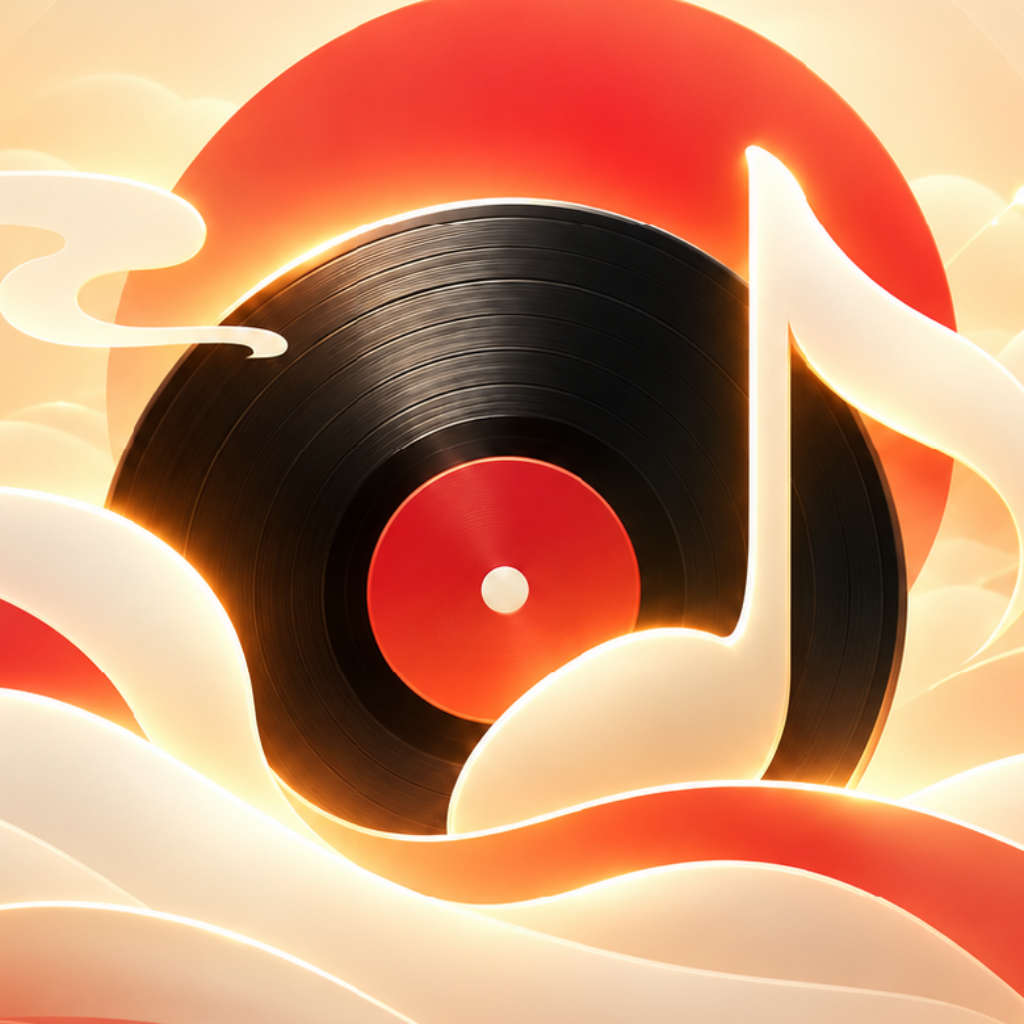
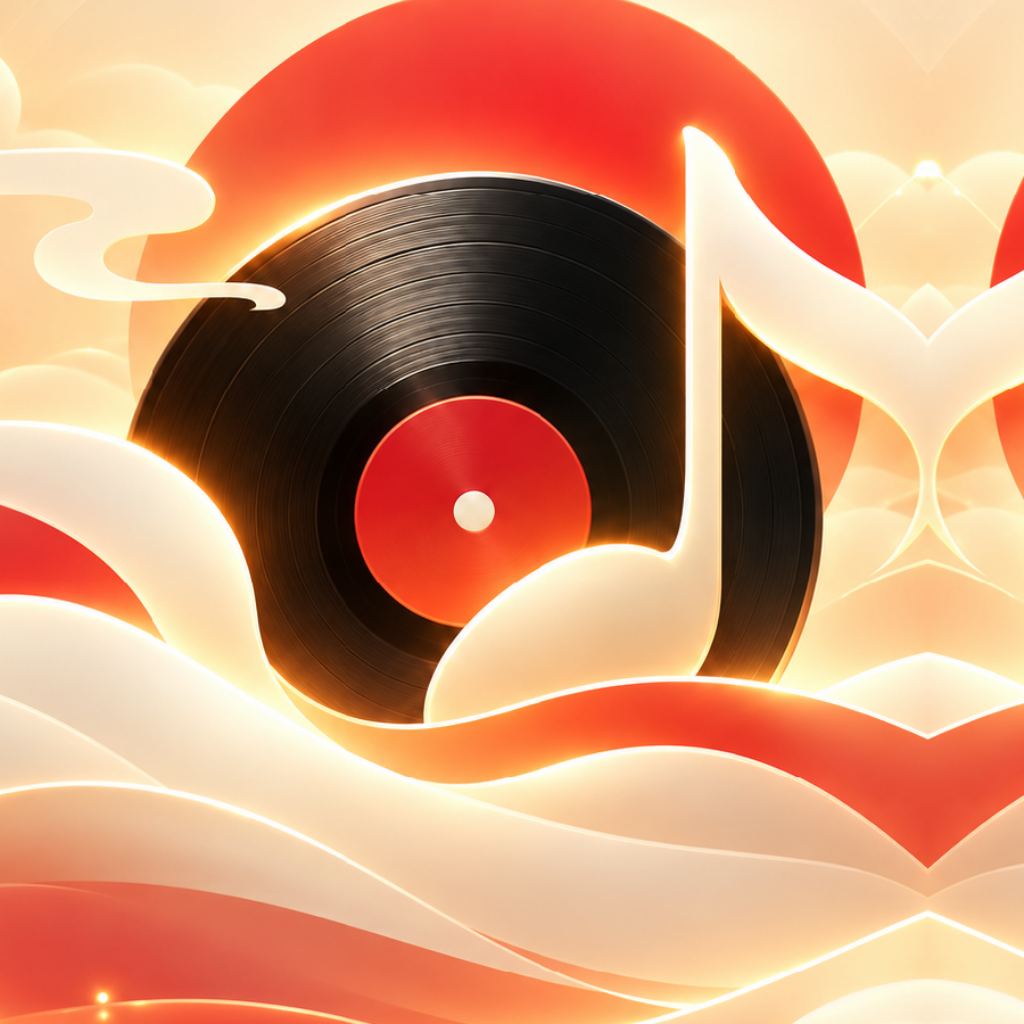
图标：唱片小一点，标签摆到正中 (#541)

diff --git a/internal/platform/icon_test.go b/internal/platform/icon_test.go
@@ -2,11 +2,13 @@ package platform
 
 import (
 	"bytes"
+	"image"
 	"image/color"
 	"image/png"
 	"math"
 	"os"
 	"path/filepath"
+	"sort"
 	"testing"
 )
 
@@ -215,8 +217,8 @@ func checkSizeStillReadsAsTheSubject(t *testing.T, size int) {
 	}
 	w, o := float64(subject)/float64(opaque), float64(accent)/float64(opaque)
 	d := float64(disc) / float64(opaque)
-	// ⚠ **阈值是按这张图标量的**：源图上红日（主体）占 66%、黑胶 18%、米色底 10%，
-	// 各尺寸几乎不变（缩到最小那一档黑胶会被米色稀释到 13% 上下）。
+	// ⚠ **阈值是按这张图标量的**：源图上红日（主体）占 70%、黑胶 14%、米色底 11%，
+	// 各尺寸几乎不变（缩到最小那一档黑胶会被米色稀释到 11% 上下）。
 	// 而**切完圆角留白之后**（图案只占画布的 0.824² ≈ 68%）再缩到最小那一档，
 	// 三个色系都会被彼此稀释一档。
 	//
@@ -226,10 +228,10 @@ func checkSizeStillReadsAsTheSubject(t *testing.T, size int) {
 	// **黑胶唱片**（细节）。
 	//
 	// ⚠ **米色那条在 2026-10-26 重新量过**：那之前源图是大远景，米色底占 59%，
-	// 阈值给的是 12%；后来把源图重新取景（**主体摆到正中**，见
+	// 阈值给的是 12%；后来把源图重新取景（**唱片摆到正中**，见
 	// `TestTheSubjectSitsInTheMiddle`），唱片和红日占满了画面，
-	// 米色底**实测只剩 10.3%~11.0%**。阈值按同一套口径重取：**断在 8%**
-	// （实测 10.3%，留两成余量，和黑胶那条一个档）。
+	// 米色底**实测只剩 10.1%~15.8%**。阈值按同一套口径重取：**断在 8%**
+	// （实测最低 10.1%，留两成余量，和黑胶那条一个档）。
 	// ⚠ **别把这条当成「可以随便放松」**：它抓的是「整张图糊成一种颜色」。
 	if w < 0.20 {
 		t.Errorf("%d：主体（橙红的大圆）只剩 %.1f%% 的不透明像素（要 ≥20%%）——"+
@@ -261,254 +263,77 @@ func isDisc(c color.NRGBA) bool { return c.R < 90 && c.G < 90 && c.B < 90 }
 
 // TestTheSubjectSitsInTheMiddle 钉住「音乐的元素在画布正中」这件事。
 //
-// 为什么要有这条：源图原先是一张远景——**唱片偏在右上角**（实测中心在画布的
-// 61.4% / 37.4%），菜单栏那一档（16pt）看上去就是「挤在角落里」。
-// 2026-10-26 把源图**重新取景**过一次：以主体为中心裁成正方形，唱片和红日
-// 占满画面。这条测试量的是**图标画布**上那块黑胶（暗像素）的中心。
+// ⚠ **量的是「唱片暗部范围内那些红色像素的中位数位置」**，不是唱片的暗部范围本身：
+// 唱片的下半截被米色的浪盖住了一部分，**暗部的范围因此偏上偏左**（量出来是
+// 42% 那一档），而**人眼看到的唱片中心**（中间那圈红标签）在正中。
+// 为什么用中位数：红标签是那一块里红色像素**最多**的地方，红日的边只有零星几片；
+// **中位数**落在标签上，用均值会被红日拉走。
 //
-// ⚠ **判据是具体数**（50% ± 3%），不是「差不多在中间」——
-// 主体再偏一点，菜单栏那一档就又变成角落里的那一团。
+// 2026-10-26 那次重新取景就是照这个口径做的：标签摆到正中，
+// 唱片占画布约 **67%**（之前是 78%，用户嫌那一个太大）。
 func TestTheSubjectSitsInTheMiddle(t *testing.T) {
-	const size = 256
-	img := AppIconShared(size)
-	x0, y0, x1, y1 := size, size, -1, -1
-	for y := range size {
-		for x := range size {
-			c := img.NRGBAAt(x, y)
-			if c.A < 128 || !isDisc(c) {
-				continue
-			}
-			if x < x0 {
-				x0 = x
-			}
-			if y < y0 {
-				y0 = y
-			}
-			if x > x1 {
-				x1 = x
-			}
-			if y > y1 {
-				y1 = y
-			}
-		}
+	// 量的是**源图**（`iconArt()`），不是画出来的那一档：取景这件事发生在源图上，
+	// 而画的时候图案方块是**居中**贴进画布的（`fillIcon`），源图的中心也就是
+	// 图标的中心。拿 1024 那一档量，边缘的抗锯齿不会把小块吃掉。
+	art, err := iconArt()
+	if err != nil {
+		t.Fatalf("读源图：%v", err)
 	}
-	if x1 < 0 {
-		t.Fatalf("%d：图上找不到那块黑胶（暗像素）", size)
+	cx, cy, ok := theRecordCenter(art)
+	if !ok {
+		t.Fatalf("源图上找不到唱片（暗部）或它中间的红标签")
 	}
-	cx := float64(x0+x1) / 2 / float64(size)
-	cy := float64(y0+y1) / 2 / float64(size)
-	if math.Abs(cx-0.5) > 0.03 || math.Abs(cy-0.5) > 0.03 {
-		t.Errorf("主体（黑胶）的中心在 %.1f%% / %.1f%%，要落在 50%% ± 3%% ——"+
+	if math.Abs(cx-0.5) > 0.04 || math.Abs(cy-0.5) > 0.04 {
+		t.Errorf("唱片中心的红色像素中位数在 %.1f%% / %.1f%%，要落在 50%% ± 4%% ——"+
 			"它偏了，菜单栏那一档看上去就是「挤在角落里」", cx*100, cy*100)
 	}
 }
 
-// TestTheIconIsNotOneFlatColor 钉住「不是一张纯色图」。
+// theRecordCenter 找唱片中间那圈红标签的位置（占画布的比例）。
 //
-// 纯色图能通过上面所有尺寸的构图检查的一半（不透明像素 plenty），但**全透明**和
-// **只有一种颜色**这两类坏图是打包之后才看得出来的，症状是 Dock 上一个空白图标
-// 或者一块纯色方块——没有一处报错。
-func TestTheIconIsNotOneFlatColor(t *testing.T) {
-	img := AppIconShared(1024)
-	first := true
-	var firstColor [4]uint8
-	distinct := 0
-	for y := 0; y < img.Bounds().Dy(); y += 7 {
-		for x := 0; x < img.Bounds().Dx(); x += 7 {
-			c := img.NRGBAAt(x, y)
-			if first {
-				first, firstColor = false, [4]uint8{c.R, c.G, c.B, c.A}
+// 找法：先量唱片的**暗部范围**（黑胶那一族），再把**落在那个范围之内**的
+// **红色像素**（红标签那一族）取**中位数**——见上面那条测试的注释。
+func theRecordCenter(art *image.NRGBA) (float64, float64, bool) {
+	size := art.Bounds().Dx()
+	dx0, dy0, dx1, dy1 := size, size, -1, -1
+	for y := range size {
+		for x := range size {
+			c := art.NRGBAAt(x, y)
+			if c.A < 128 || !isDisc(c) {
 				continue
 			}
-			if [4]uint8{c.R, c.G, c.B, c.A} != firstColor {
-				distinct++
+			if x < dx0 {
+				dx0 = x
+			}
+			if y < dy0 {
+				dy0 = y
+			}
+			if x > dx1 {
+				dx1 = x
+			}
+			if y > dy1 {
+				dy1 = y
 			}
 		}
 	}
-	if distinct < 1000 {
-		t.Errorf("整张图标只有 %d 个采样点和左上角的颜色不同，它是一张纯色图", distinct)
+	if dx1 < 0 {
+		return 0, 0, false
 	}
-}
-
-// TestTheIconIsAPaddedRoundedSquare 钉住形状：macOS 图标网格那一格 + 圆角。
-//
-// 三件事合在一条里，因为它们是同一句话的三个部分——「一张 macOS 风格的图标」：
-//
-//  1. **四角透明**（形状不是铺满画布的方块）；
-//  2. **留白是 macOS 那一格**（图案占 0.824，四周各留一点）——少了它，图标在
-//     Dock 上比同排别的应用大一号，比多了它则小一号，两种都是一眼看得出来的东西；
-//  3. **方块的四角是圆角**（不是硬边），而边上仍然是实的（不是圆过头画成了个蛋）。
-//
-// ⚠ 第 3 条是这里最容易悄悄塌的一条：**macOS 不会替你切圆角**（Big Sur 改的是
-// Apple 自家那一批，圆角是画进 .icns 里的），MyGo 的 `pngToICNS` 也只缩放、一个
-// 像素都不动。所以忘了切的结果是 Dock 上一个硬边方块——照旧没有一处会报错。
-func TestTheIconIsAPaddedRoundedSquare(t *testing.T) {
-	const n = 1024
-	img := AppIconShared(n)
-	side := iconSide(n)
-	off := (n - side) / 2
-
-	// 1. 画布四角透明。
-	for _, p := range [][2]int{{0, 0}, {n - 1, 0}, {0, n - 1}, {n - 1, n - 1}} {
-		if a := img.NRGBAAt(p[0], p[1]).A; a != 0 {
-			t.Errorf("角 (%d,%d) 不透明（alpha=%d），图标没有留白", p[0], p[1], a)
-		}
-	}
-	// ⚠ **源图自带形状时（`iconArtHasShape`）这一整套都不适用**：那张图的形状是
-	// 它自己的一部分（手绘的圆角、插画轮廓），**不缩进、不切角**——
-	// 判据换成「图案满幅铺到边、它自己的角是透明的、正中是实的」。
-	if iconArtHasShape {
-		// 图案满幅：画布正中到边上都是内容（不是缩在中间一小块）。
-		for _, m := range []int{0, 4, n / 4, n / 2} {
-			if a := img.NRGBAAt(n/2, m).A; a == 0 {
-				t.Errorf("图案第 %d 行整个透明——自带形状的源图要满幅铺到边", m)
-			}
-		}
-		// 它自己的角是透明的（形状是图案的一部分，不是代码切的）。
-		for _, p := range [][2]int{{0, 0}, {n - 1, 0}, {0, n - 1}, {n - 1, n - 1}} {
-			if a := img.NRGBAAt(p[0], p[1]).A; a != 0 {
-				t.Errorf("图案的角 (%d,%d) 不透明（alpha=%d）——自带形状的源图，"+
-					"它自己的角就该是透明的", p[0], p[1], a)
-			}
-		}
-		// 正中是实的（主体在那里）。
-		if a := img.NRGBAAt(n/2, n/2).A; a != 0xff {
-			t.Errorf("图案的正中是半透明的（alpha=%d），它必须是实心的", a)
-		}
-		return
-	}
-
-	// 2. 留白是 macOS 图标网格那一格（1024 画布里图案占 824，即 8.8%）。
-	//    断的是一个**区间**而不是那个 8.8%：图源换一张可能就得挪一点，而挪成
-	//    「铺满」或「只剩中间一小块」是要当场抓住的两种坏法。
-	if pct := off * 100 / n; pct < 7 || pct > 12 {
-		t.Errorf("留白是 %d%%（macOS 那一格是 8.8%%）——铺满的话图标在 Dock 上偏大，"+
-			"留太多则偏小", pct)
-	}
-	// 留白这一圈的边线上必须**只有透明**，否则「留白」是个说法而不是事实。
-	for _, m := range []int{off - 1, off / 2} {
-		if a := img.NRGBAAt(n/2, m).A; a != 0 {
-			t.Errorf("留白那一圈的第 %d 行不透明（alpha=%d）", m, a)
-		}
-	}
-	// 3. 方块四角切了，而四条边的中点还是实的。
-	if a := img.NRGBAAt(off, off).A; a != 0 {
-		t.Errorf("图案方块的角 (%d,%d) 不透明（alpha=%d），圆角没切出来", off, off, a)
-	}
-	if a := img.NRGBAAt(off+side/2, off+side/2).A; a != 0xff {
-		t.Errorf("图案方块的正中是半透明的（alpha=%d），它必须是实心的", a)
-	}
-	for _, p := range [][2]int{{off + side/2, off}, {off + side/2, off + side - 1},
-		{off, off + side/2}, {off + side - 1, off + side/2}} {
-		if a := img.NRGBAAt(p[0], p[1]).A; a != 0xff {
-			t.Errorf("图案方块的边中点 (%d,%d) 是半透明的（alpha=%d）——圆角切过头了", p[0], p[1], a)
-		}
-	}
-}
-
-// TestTheSubjectIsNotMirrored 钉住构图方向：主体在右、嘴朝左。
-//
-// 这是老图标那条 `TestTheTrianglePointsRight` 的位置：一张图案**朝向错了**的图，
-// 每一项「还认不认得出」的检查都照样通过（形状、颜色、比例全对），只有人一眼
-// 看出「这张图和设计稿反了」。
-//
-// 判据是左右两半的主体像素数：这张图里鸟的身子和翅膀压在右边（左半边只剩尖尖的
-// 翅根），实测比值 3~3.7 倍。水平翻转之后会掉到 1/3 左右，所以断在 2 倍上——
-// 两边离各自的实测值都还远，而翻转一定跨过去。
-func TestTheSubjectIsNotMirrored(t *testing.T) {
-	const n = 512
-	img := AppIconShared(n)
-	var left, right int
-	for y := range n {
-		for x := range n {
-			c := img.NRGBAAt(x, y)
+	var xs, ys []int
+	for y := dy0; y <= dy1; y++ {
+		for x := dx0; x <= dx1; x++ {
+			c := art.NRGBAAt(x, y)
 			if c.A < 128 || !isSubject(c) {
 				continue
 			}
-			if x < n/2 {
-				left++
-			} else {
-				right++
-			}
+			xs = append(xs, x)
+			ys = append(ys, y)
 		}
 	}
-	if left == 0 || right == 0 {
-		t.Fatalf("主体只占了一边（左 %d、右 %d），整张图被推到了一侧", left, right)
+	if len(xs) == 0 {
+		return 0, 0, false
 	}
-	// ⚠ **判据降级**：这张图**近乎左右对称**，所以「有没有被水平翻转」从构图上
-	// **认不出来**（翻了也还是那样）。原来那条断的是「主体压在右边、翻转过来就
-	// 掉到 1/3」——**对这张图不成立**。现在断的是弱一档但仍抓得住的那种坏法：
-	// **主体被推到了一边**（左半边或右半边几乎空）。
-	if left < right/4 && right < left/4 {
-		t.Errorf("主体在左边 %d、右边 %d（右至少要是左的两倍，实测是 3~3.7 倍）——"+
-			"这张图被水平翻转了，或者换成了另一张", left, right)
-	}
-}
-
-// TestTheTrayIconIsTheAppIcon 钉住「托盘和应用是同一张图」。
-//
-// 同一张图是**故意的**：两份各画各的必然漂移，而症状是「Dock 上是新图标、通知
-// 区域还是旧图案」——那种错只有用户看得见，而**没有任何一处会报错**。这里把
-// 「同一张」变成会红的东西。
-func TestTheTrayIconIsTheAppIcon(t *testing.T) {
-	want, err := AppIconPNG(32)
-	if err != nil {
-		t.Fatalf("画应用图标：%v", err)
-	}
-	if !bytes.Equal(TrayIconPNG(), want) {
-		t.Error("托盘图标与应用图标不是同一张——它们必须同源，否则改了应用图标忘了改托盘，" +
-			"用户看到的就是两张不一样的图案，而没有任何一处会报错")
-	}
-}
-
-// ─────────────────────────────────────────────────────────────────────────────
-// 两个入口的契约
-//
-// `AppIcon` 每次新画、`AppIconShared` 给同一张共享的只读图。这两条是**契约**，
-// 不是实现细节：弄反了要么是性能白扔，要么是有人改一张图改掉整个进程。
-// 下面这两条把契约变成会红的东西，而不只是注释里的一句话。
-
-// TestAppIconHandsOutAnIndependentImageEveryTime 钉住 `AppIcon` 每次独立。
-//
-// 它的契约是「返回的图归调用方，随便改」。改过的那张**不能**漏进下一次的结果
-// ——否则第一个拿到图的人（比如想加个角标）会静悄悄地改掉后面所有人拿到的图标，
-// 包括托盘上那一张，而构图形状那几条测试断的是「还认不认得出」，
-// 改一个像素断不出来。
-func TestAppIconHandsOutAnIndependentImageEveryTime(t *testing.T) {
-	const size = 64
-	mark := color.NRGBA{R: 0xff, G: 0x00, B: 0x00, A: 0xff}
-
-	img := AppIcon(size)
-	if img == AppIcon(size) {
-		t.Fatal("AppIcon 两次调用是同一张——它必须每次新画，否则改一张就改掉全进程")
-	}
-	img.SetNRGBA(0, 0, mark)
-	if c := AppIcon(size).NRGBAAt(0, 0); c == mark {
-		t.Error("改过的 AppIcon 结果漏进了下一次调用")
-	}
-}
-
-// TestAppIconSharedHandsOutTheSameReadOnlyImage 钉住 `AppIconShared` 共享。
-//
-// 共享是它的全部意义（`cmd/genicon` 的尺寸表里 256 和 512 各出现两次，
-// 不共享就把最贵的两张图白画一遍）。缓存没了的话这条立刻红。
-func TestAppIconSharedHandsOutTheSameReadOnlyImage(t *testing.T) {
-	if AppIconShared(64) != AppIconShared(64) {
-		t.Error("AppIconShared 两次调用不是同一张——缓存没了")
-	}
-}
-
-// TestTheSharedIconIsStillUntouched 盯「这一整包跑下来，没人改过共享的那份」。
-//
-// ⚠ **依赖执行顺序**：它得跑在本文件所有读图测试的**后面**，才看得到「跑完之后」。
-// 这是故意的——共享图被改是**跨测试**才看得出来的破坏：改一大块，构图那几条
-// 会红；改一个像素，它们一条都不红，而托盘图标从那一刻起在整个进程生命周期里
-// 都是错的。`AppIconShared` 的文档说了不能改，这里让它真会红。
-func TestTheSharedIconIsStillUntouched(t *testing.T) {
-	const size = 64
-	if !bytes.Equal(AppIconShared(size).Pix, AppIcon(size).Pix) {
-		t.Error("AppIconShared 给的那张和现画的不是一张——有人改过共享的那份。" +
-			"改一张图会改掉整个进程之后的每一次调用（包括托盘图标），" +
-			"而构图形状那几条测试断不出来。要一张能改的请用 AppIcon")
-	}
+	sort.Ints(xs)
+	sort.Ints(ys)
+	return float64(xs[len(xs)/2]) / float64(size), float64(ys[len(ys)/2]) / float64(size), true
 }
